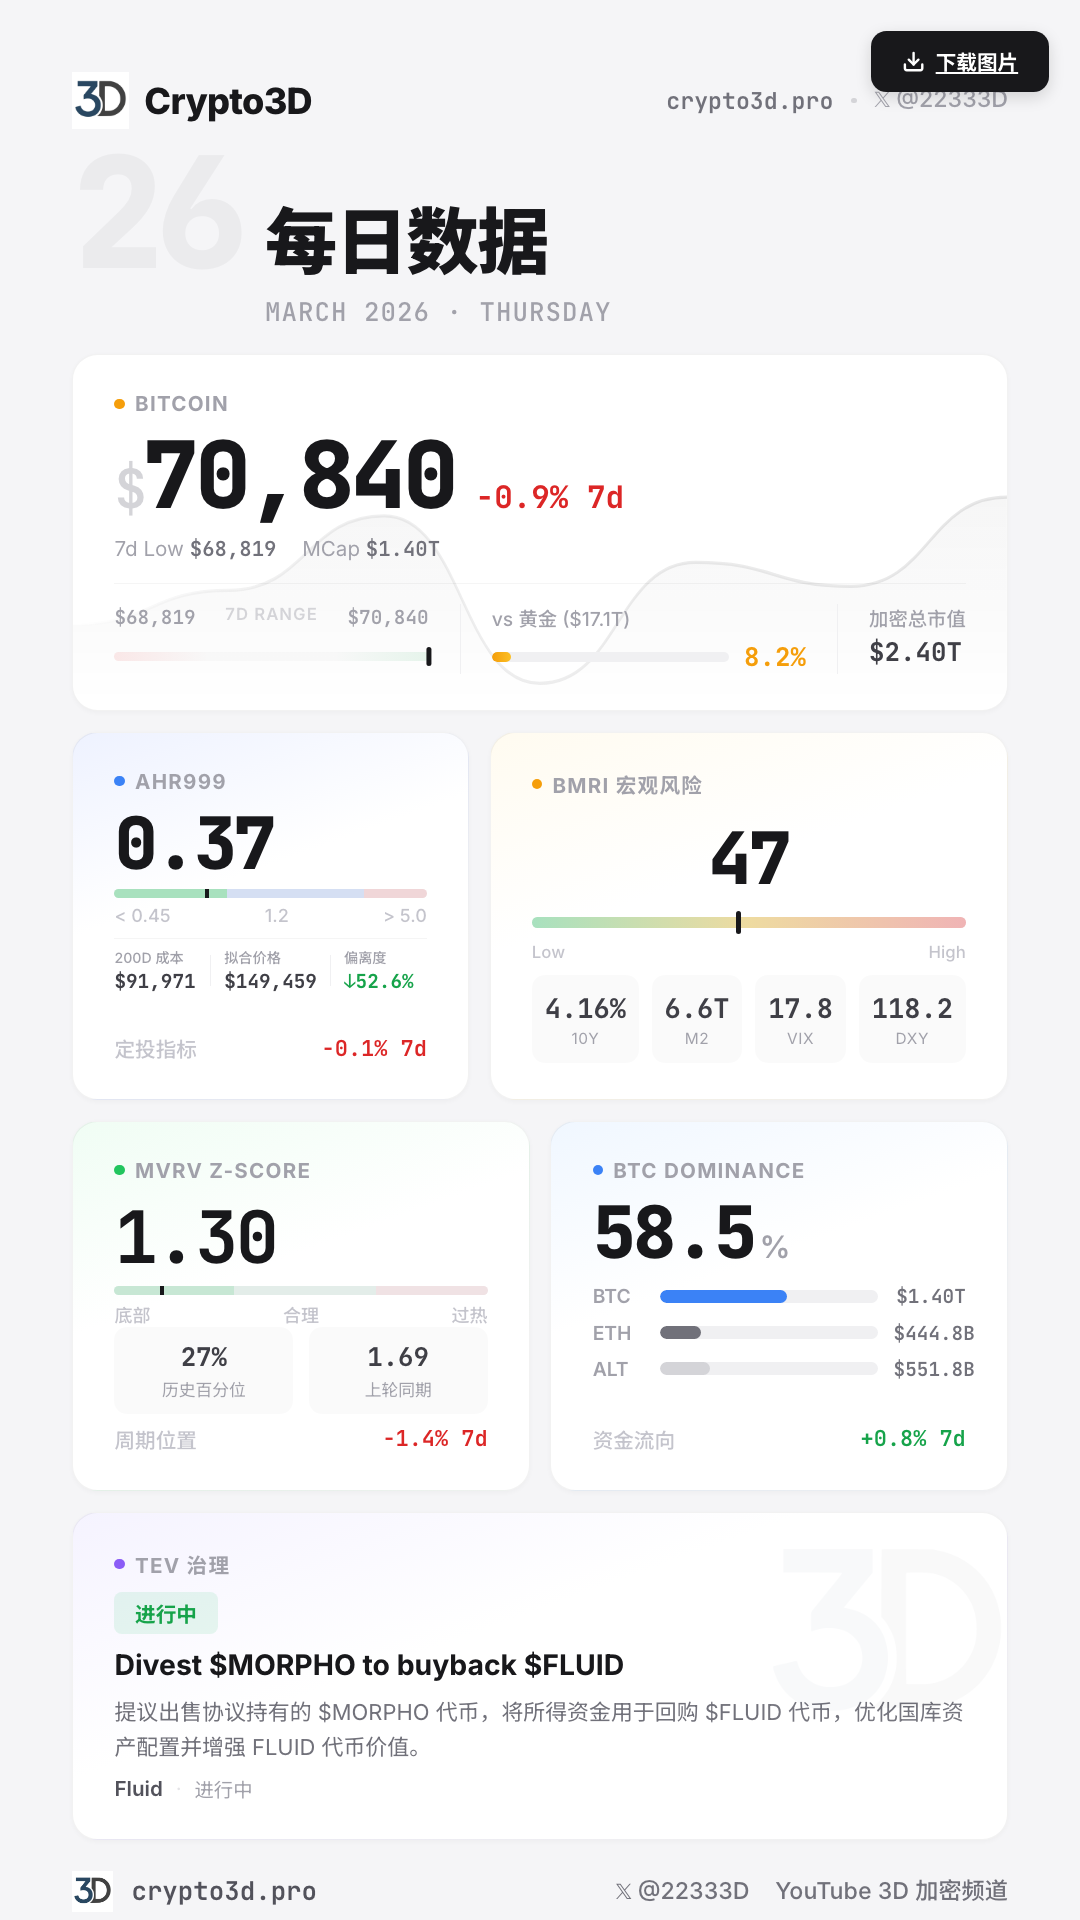
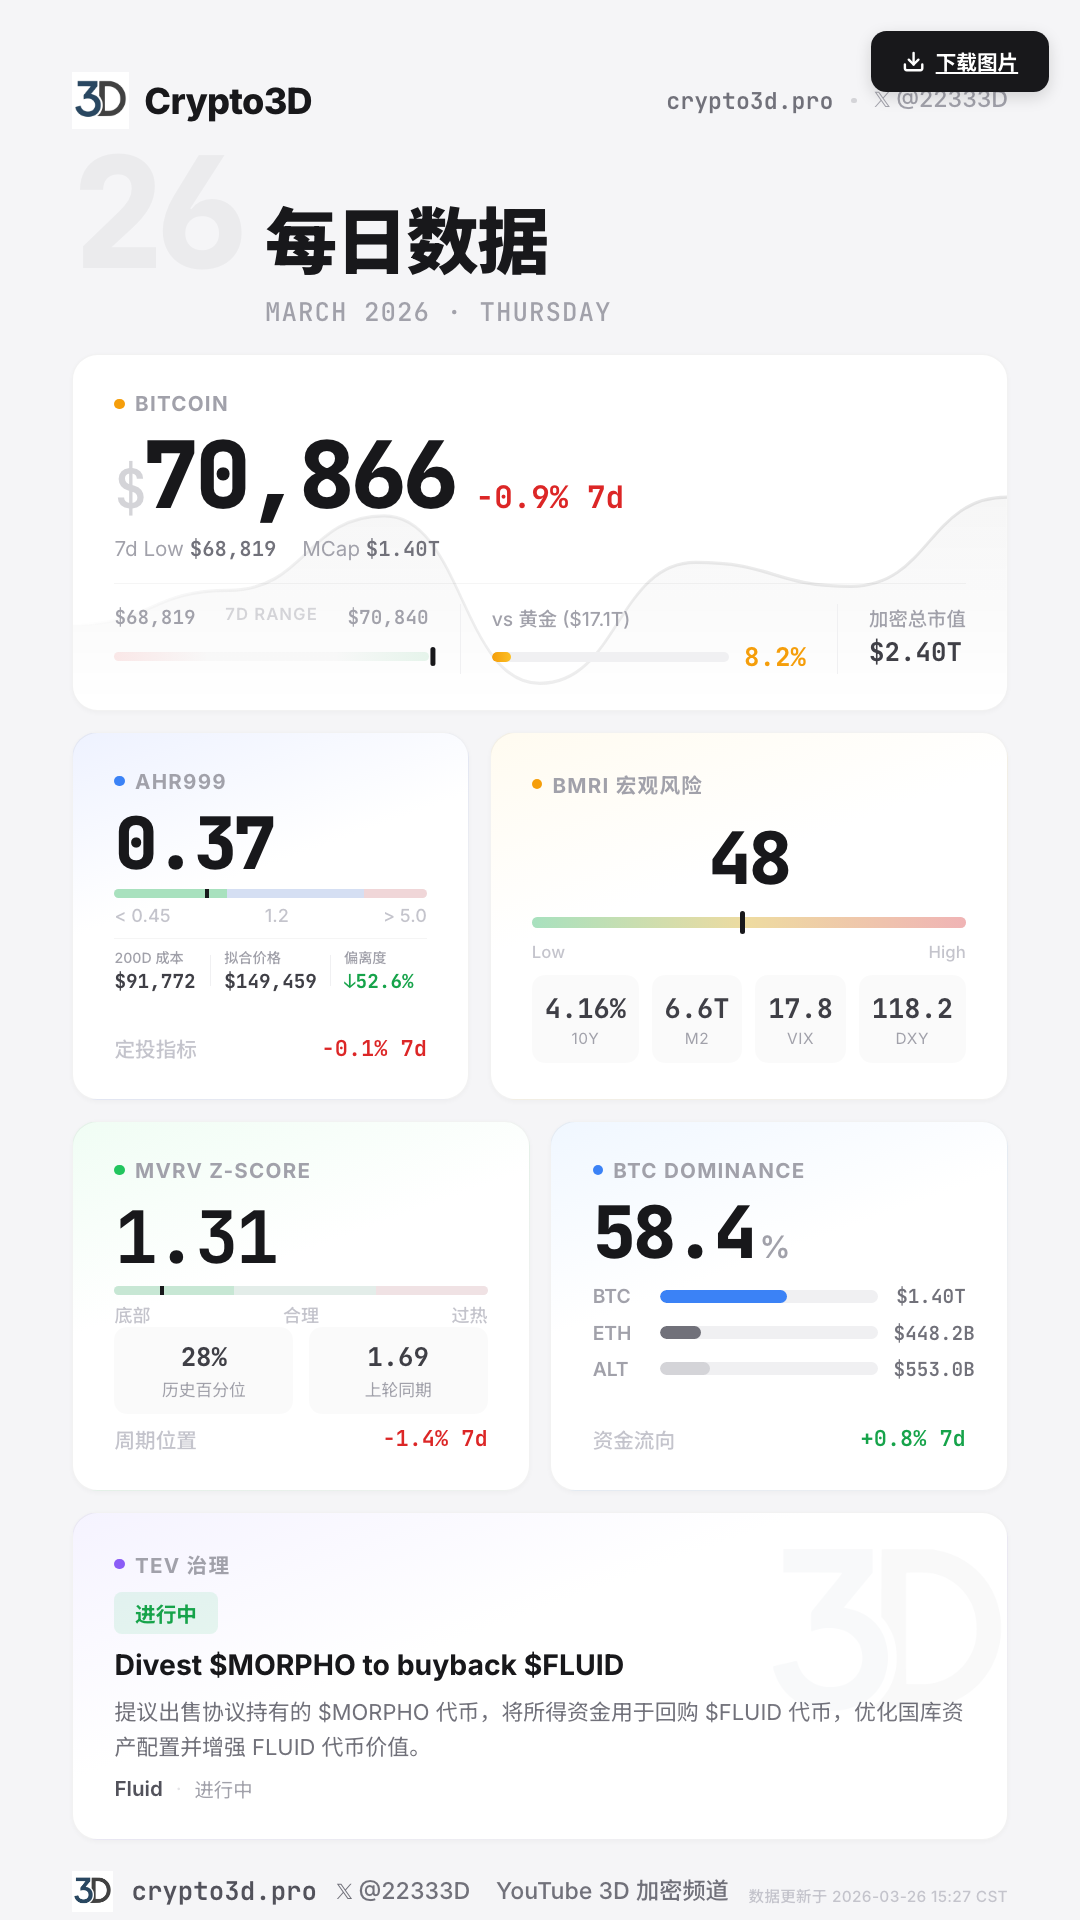
feat: add data update timestamp to daily poster

diff --git a/daily-poster/output/2026-03-26.html b/daily-poster/output/2026-03-26.html
@@ -354,7 +354,7 @@ body {
     <div style="position:relative;z-index:1;">
       <div class="card-label"><span class="card-dot" style="background:#f59e0b;"></span>Bitcoin</div>
       <div class="btc-price-row">
-        <div class="btc-price"><span class="btc-dollar">$</span>70,840</div>
+        <div class="btc-price"><span class="btc-dollar">$</span>70,866</div>
         <span class="btc-change down">-0.9% 7d</span>
       </div>
       <div class="btc-sub">
@@ -369,7 +369,7 @@ body {
           <span class="range-tag">7D RANGE</span>
           <span class="range-val">$70,840</span>
         </div>
-        <div class="range-track"><div class="range-dot" style="left:100.0%;"></div></div>
+        <div class="range-track"><div class="range-dot" style="left:101.3%;"></div></div>
       </div>
       <div class="btc-vsep"></div>
       <div class="gold-block">
@@ -409,7 +409,7 @@ body {
       <div class="ahr-extras">
         <div class="ahr-extra-item">
           <span class="ahr-extra-label">200D 成本</span>
-          <span class="ahr-extra-val">$91,971</span>
+          <span class="ahr-extra-val">$91,772</span>
         </div>
         <div class="ahr-extra-sep"></div>
         <div class="ahr-extra-item">
@@ -431,11 +431,11 @@ body {
     <div class="card card-bmri">
       <div class="card-label"><span class="card-dot" style="background:#f59e0b;"></span>BMRI 宏观风险</div>
       <div style="display:flex;align-items:center;justify-content:center;padding:8px 0;">
-        <div class="bmri-num" style="font-size:56px;">47</div>
+        <div class="bmri-num" style="font-size:56px;">48</div>
       </div>
       <div class="bmri-gauge" style="width:100%;margin-bottom:6px;">
         <div class="bmri-gauge-grad"></div>
-        <div class="bmri-gauge-needle" style="left:47%;"></div>
+        <div class="bmri-gauge-needle" style="left:48%;"></div>
       </div>
       <div class="bmri-gauge-labels" style="width:100%;">
         <span class="bmri-gauge-label">Low</span>
@@ -454,7 +454,7 @@ body {
   <div class="two-col">
     <div class="card card-mvrv">
       <div class="card-label"><span class="card-dot" style="background:#22c55e;"></span>MVRV Z-Score</div>
-      <div class="mvrv-value">1.30</div>
+      <div class="mvrv-value">1.31</div>
       <div class="zone-bar">
         <div class="zone-seg" style="width:32%;background:rgba(34,197,94,0.2);position:relative;">
           <div style="position:absolute;left:38%;top:-5px;width:3px;height:17px;background:#18181b;border-radius:2px;"></div>
@@ -465,7 +465,7 @@ body {
       <div class="zone-labels"><span class="zone-label">底部</span><span class="zone-label">合理</span><span class="zone-label">过热</span></div>
       <div class="mvrv-chips">
         <div class="mvrv-chip">
-          <div class="mvrv-chip-val">27%</div>
+          <div class="mvrv-chip-val">28%</div>
           <div class="mvrv-chip-label">历史百分位</div>
         </div>
         <div class="mvrv-chip">
@@ -482,24 +482,24 @@ body {
     <div class="card card-btcd">
       <div class="card-label"><span class="card-dot" style="background:#3b82f6;"></span>BTC Dominance</div>
       <div class="btcd-headline">
-        <span class="btcd-num">58.5</span>
+        <span class="btcd-num">58.4</span>
         <span class="btcd-pct">%</span>
       </div>
       <div class="btcd-bars">
         <div class="btcd-bar-row">
           <span class="btcd-bar-label">BTC</span>
-          <div class="btcd-bar-track"><div class="btcd-bar-fill" style="width:58.5%;background:#3b82f6;"></div></div>
+          <div class="btcd-bar-track"><div class="btcd-bar-fill" style="width:58.4%;background:#3b82f6;"></div></div>
           <span class="btcd-bar-val">$1.40T</span>
         </div>
         <div class="btcd-bar-row">
           <span class="btcd-bar-label">ETH</span>
           <div class="btcd-bar-track"><div class="btcd-bar-fill" style="width:19%;background:#71717a;"></div></div>
-          <span class="btcd-bar-val">$444.8B</span>
+          <span class="btcd-bar-val">$448.2B</span>
         </div>
         <div class="btcd-bar-row">
           <span class="btcd-bar-label">ALT</span>
           <div class="btcd-bar-track"><div class="btcd-bar-fill" style="width:23.0%;background:#d4d4d8;"></div></div>
-          <span class="btcd-bar-val">$551.8B</span>
+          <span class="btcd-bar-val">$553.0B</span>
         </div>
       </div>
       <div class="card-footer">
@@ -538,7 +538,7 @@ body {
       <span>𝕏 @22333D</span>
       <span>YouTube 3D 加密频道</span>
     </div>
-  </div>
+  <div style="text-align:center;font-size:12px;font-weight:500;color:#c4c4cc;letter-spacing:0.02em;padding:6px 0 0;">数据更新于 2026-03-26 15:27 CST</div></div>
 </div>
 
 <script>

diff --git a/daily-poster/gen-daily.py b/daily-poster/gen-daily.py
@@ -233,6 +233,11 @@ def render_html(data):
     # === Logo: relative path from output/ subdir to parent ===
     html = html.replace('src="logo-3d.jpg"', 'src="../logo-3d.jpg"')
 
+    # === Update timestamp ===
+    ts_str = now.strftime("%Y-%m-%d %H:%M CST")
+    ts_html = f'<div style="text-align:center;font-size:12px;font-weight:500;color:#c4c4cc;letter-spacing:0.02em;padding:6px 0 0;">数据更新于 {ts_str}</div>'
+    html = html.replace('</div>\n</div>\n</body>', f'{ts_html}</div>\n</div>\n</body>')
+
     # --- Date ---
     day_num = str(now.day)
     month_en = MONTHS_EN[now.month]
